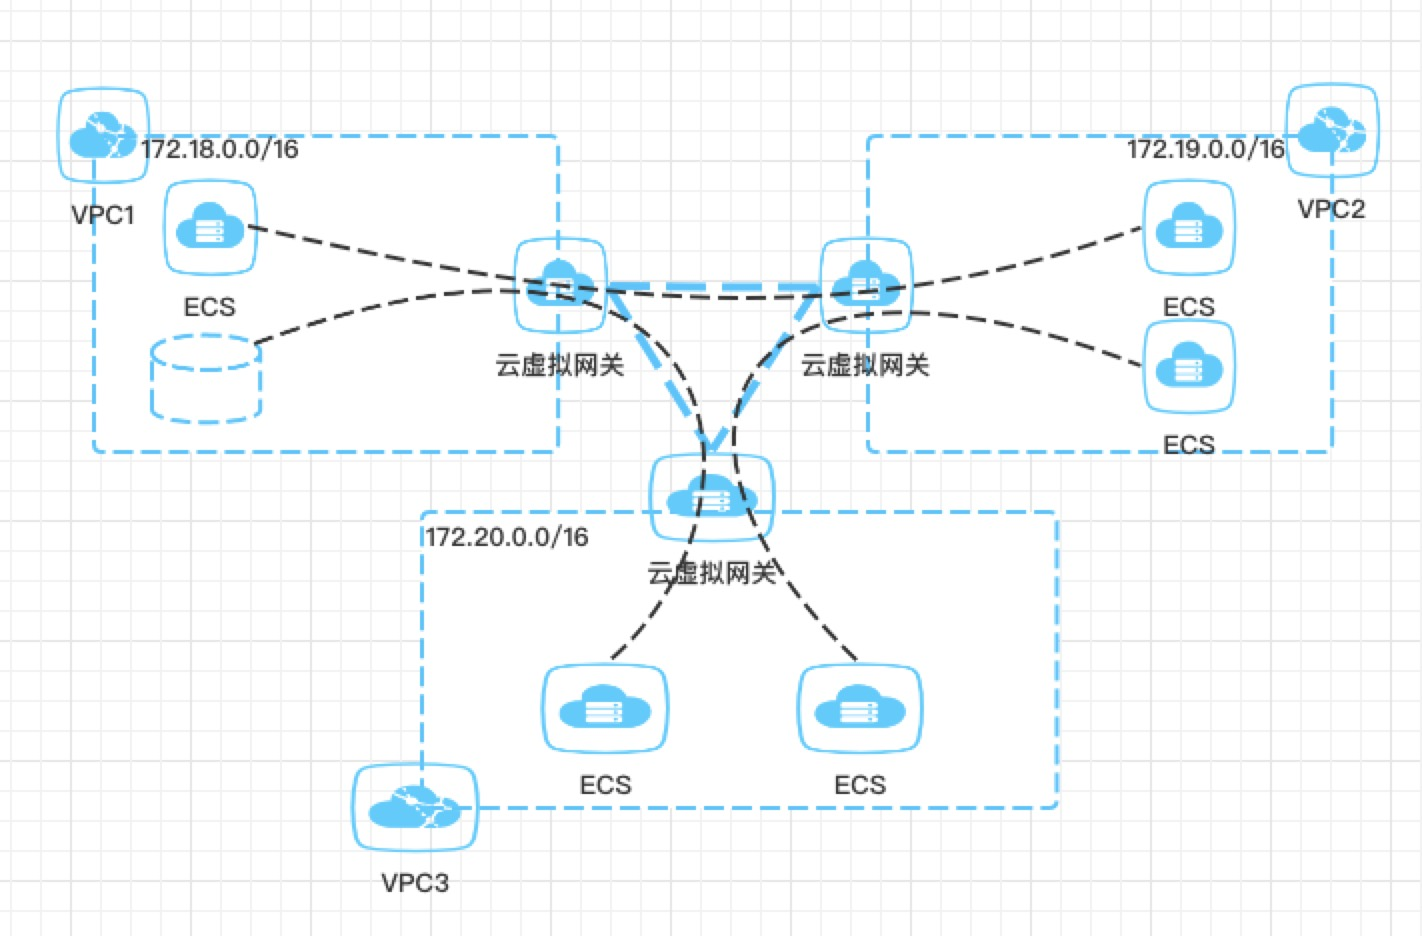
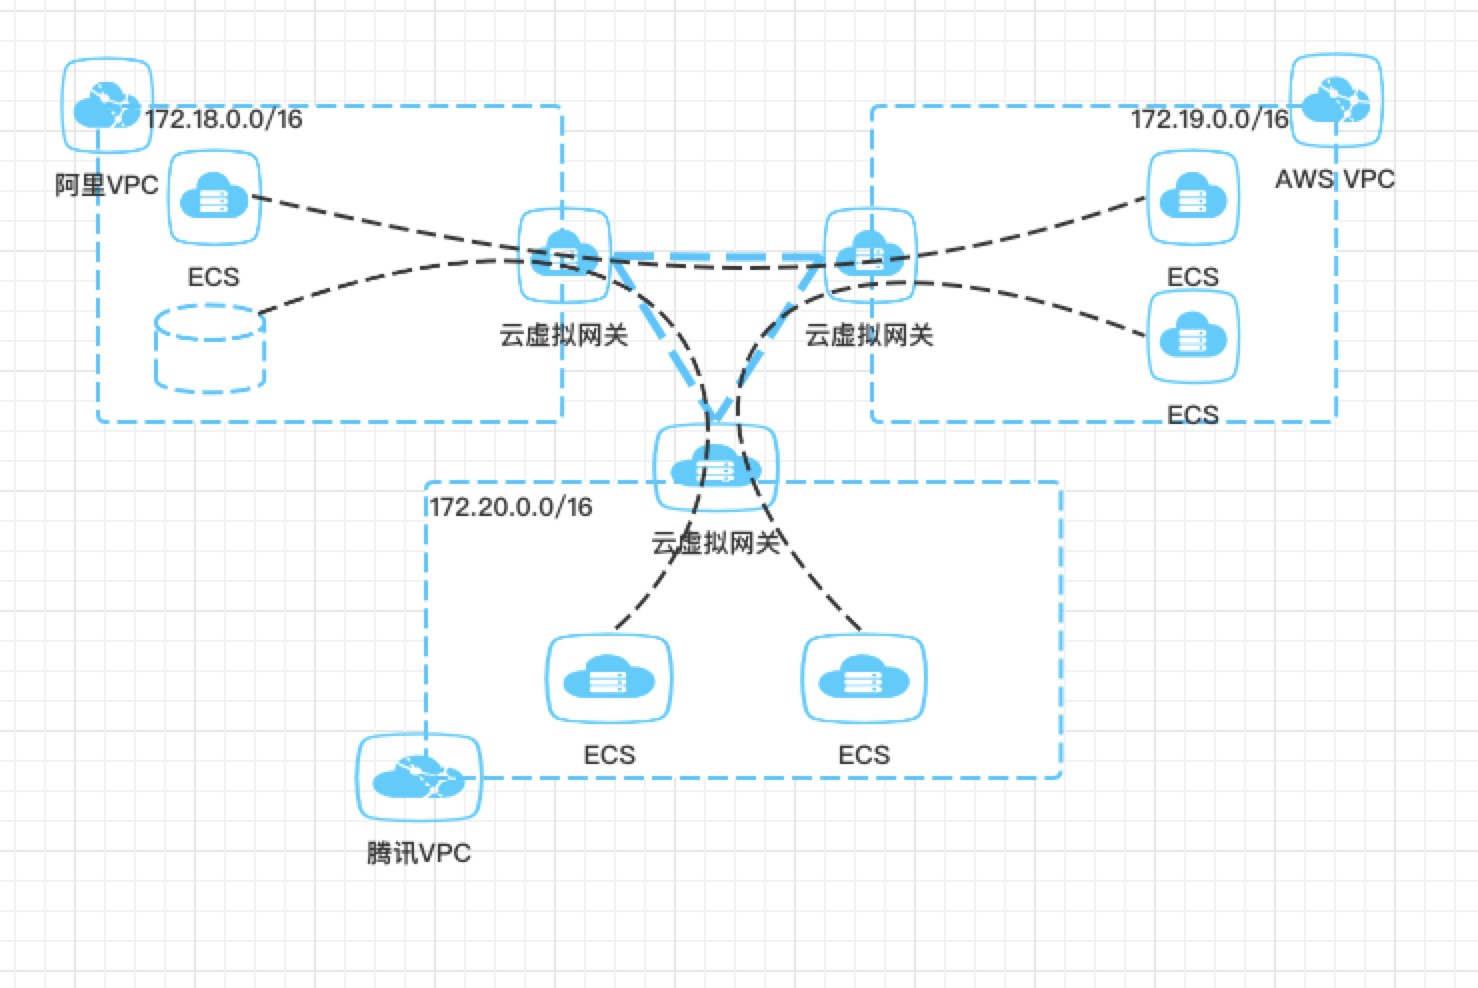
doc: udpate readme

Changed region(s): [[0.0309, 0.031, 0.9902, 0.9605], [0.6807, 0.2169, 0.7426, 0.2479]]

diff --git a/README.md b/README.md
@@ -1,118 +1,32 @@
 [![Build Status](https://travis-ci.org/ICKelin/cframe.svg?branch=master)](https://travis-ci.org/ICKelin/cframe) ![goreport](https://goreportcard.com/badge/github.com/ICKelin/cframe)
 
 # cframe是什么
-cframe是一款基于公网传输的网络连接技术，通过cframe可以实现VPC与VPC之间,企业数据中心与VPC之间的互联互通， 纯软件实现，不依赖硬件设备，每个VPC只需要一台linux服务器即可。
+cframe是一款基于公网传输的网络软件，通过cframe可以实现VPC与VPC之间,企业数据中心与VPC之间的互联互通，纯软件实现，不依赖硬件设备，每个VPC只需要一台linux服务器即可。
 
 ![cframe](doc/images/vpcpeer.jpg)
 
-# 功能
-- 公有云多个VPC网络互联互通
+## 应用场景1: 阿里云不同可用区VPC互通
 
-打通多VPC网络，实现跨VPC互通
+用户公有云使用阿里云，针对大陆用户使用了深圳地区的阿里云，为了应对海外市场，决定开通在香港开通阿里云服务海外用户，但是部分数据（比如中台配置，用户信息等）需要在深圳阿里云同步过去。
+由于部分内部服务不便暴露在公网。希望深圳阿里云能够通过内网地址访问香港阿里云，香港阿里云也能够通过内网地址访问深圳阿里云，因此需要将香港阿里云和深圳阿里云的网络进行打通。
 
--  自建idc上云
+![ali-ali](doc/images/ali-ali.jpg)
 
-打通企业数据中心与公有云，实现多点网络互联互通。
+## 应用场景2: 阿里云和aws网络打通
+AWS一直是云服务厂商的巨头，很多新的产品和解决方案都是由AWS率先提供，现用户需要在海外新增一个香港AWS的VPC，以使用AWS的最新产品，但是部分数据还是需要访问香港阿里与和大陆阿里云，因此需要将三者网络进行打通。
 
-# 优势
-1. 配置简单
+![ali-aws](doc/images/ali-aws.jpg)
 
-不需要网络工程师的干预，只需要在后台管理系统登记VPC信息以及云虚拟网关部署的公网ip信息，然后运行即可。
+## 应用场景3: 阿里云，aws，腾讯云网络两两互通
+阿里云虽然是国内领先的云服务厂商，但是谁也不敢保证哪天出事两或者价格方面做了调整，或者说公司为了缩减预算切换到其他云服务厂商，所以有时也需要考虑使用腾讯云等作为备份，
+在必要的时候切换到腾讯云上，因此需要在场景1和场景2的基础之上新加入腾讯云，因此需要解决阿里云，腾讯云，aws这三者网络的互联互通。
 
-2. 配置灵活
-同一用户下的VPC自动联网，可在分钟级别完成多个公有云可用区互联。
+![ali-aws-tc](doc/images/ali-aws-tc.jpg)
 
-3. 免费开源
-相比较公有云的VPN而言，cframe是开源项目，相比较公有云的高速通道的巨额费用而言，cframe是一款免费软件。
+## 应用场景4: 数据中心与公有云互通
 
-# 在线测试
-在线demo: [cframe后台管理](http://demo.notr.tech/public)
-![dashboard](doc/images/dashboard1.jpg)
+用户使用自己的数据中心，但是希望使用公有云的部分软件(比如负载均衡)，那么需要公有云能够访问数据中心，数据中心能够访问公有云，单纯使用公网ip通信可能会产生安全问题，因此需要在数据中心与公有云之间构建私有隧道，两者通过私有地址进行访问。
 
-cframe提供一个在线的[后台管理系统](http://demo.notr.tech/public) **（PS：由于作者本人做前端或者做上层应用比较少，相对而言比较粗糙，走过路过的大佬看到了可以随手帮忙进行优化一下）**。
+![dci](doc/images/dci.jpg)
 
-通过这个cframe后台管理系统可以进行在线测试，以下为详细步骤：
-
-## 第一步： 注册&登录
-进入到cframe后台管理系统的[注册页面](http://demo.notr.tech/public/signup.html)，注册成功之后会自动跳转到登录页面，输入用户信息登录即可。
-
-## 第二步：新增云授权信息
-如果您希望由cframe帮忙自动管理vpc路由，那么您可以配置云授权信息，**如果您比较擅长网络配置或者担心我们执行了一些非法操作，那么您也可以不添加，自己在阿里云的控制台添加VPC路由，可以跳到下一步**.
-
-该步骤相对比较繁琐，但是只是一次性操作，后续没有特殊情况不需要变更。
-
-**创建阿里云子账户**
-
-进入阿里云控制台RAM访问控制模块，用户，创建用户，登录名称和显示名称均填写cframe，并勾选编程访问。 
-![](doc/images/ram.jpg)
-
-创建子账号完成之后，需要将accessKey和secretKey保存，后续需要将其登记到云授权管理当中。
-
-**添加权限策略**
-
-在ram访问控制当中，选择权限策略管理，创建权限策略，勾选脚本配置，将以下相关权限粘贴进文本编辑器当中。
-```
-
-{
-    "Version": "1",
-    "Statement": [
-        {
-            "Action": [
-                "ecs:DescribeRegions",
-                "ecs:DescribeInstances",
-                "vpc:DescribeVpcs",
-                "DescribeVRouters",
-                "vpc:DescribeRouteTables",
-                "vpc:DeleteRouteEntry",
-                "vpc:CreateRouteEntry"
-            ],
-            "Resource": "*",
-            "Effect": "Allow"
-        }
-    ]
-}
-```
-
-**添加授权**
-![](doc/images/authorize.jpg)
-
-选择授权，新增授权，用cframe进行模糊搜索 
-
-通过上述配置，完成cframe子账号的创建并授予相关权限，后续无需管理员再进行任何vpc路由相关的操作。
-
-最后，将accessKey和secretKey登记到后台管理页面当中.
-![](doc/images/csp.jpg)
-
-## 第三步：新增云虚拟网关
-在cframe后台管理系统当中，点击左侧云虚拟网关管理，新增，输入名称，公网ip，对外端口(udp，默认58423，建议输入默认值，可免去后续环境变量配置)，VPC网段等信息，确认提交
-
-![csp](doc/images/edge.jpg)
-
-> 注意：
-> 云虚拟网关是运行在VPC当中某台服务器的软件，需要具备公网IP，安全组放开对外udp端口。
-
-## 第四步：运行cframe边缘网关程序。
-边缘网关采用docker的方式运行，您可以运行以下命令执行：
-
-```
-docker run --privileged --restart=always --net host -e secret=$您的私有key -v /opt/logs/edge:/log -d ickelin/cframe_edge
-
-```
-其中secret环境变量为您的私有key，用于标识您的身份。
-
-> 注意：
-> 如果您填写的默认端口不为58423，那么需要指定 -e lis=:$您的端口号。
-> 该服务器上应该安装安装tun设备驱动，支持iptables，route等命令。
-
-运行成功之后，您将可以在cframe后台管理界面上看到您的节点状态。
-
-![success](doc/images/success.jpg)
-
-### 最后
-我认为这是个很有意思，也很有意义的工程，奈何本人个人精力有限，希望能有更多的人参与进来，无论你是:
-
-- 网络工程师
-- 系统运维
-- 后端开发人员
-- 前端开发人员
-- 甚至是销售人员
+如果您有以上四个应用场景，可以尝试使用cframe进行解决，在使用过程当中有任何问题可以随时提交issue。
